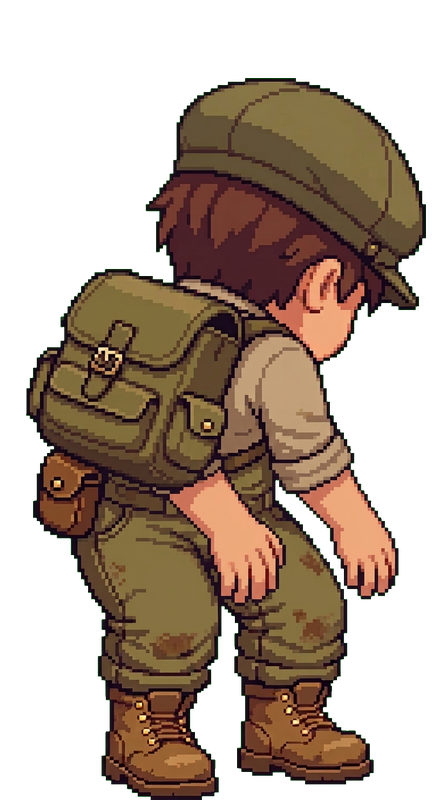
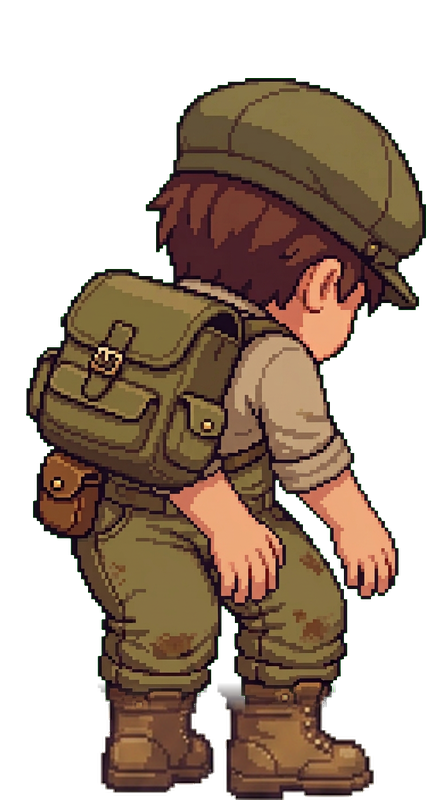
Keep player boots fixed throughout idle bow

Changed region(s): [[0.2106, 0.8438, 0.8727, 1.0]]

diff --git a/preview/app.js b/preview/app.js
@@ -1750,7 +1750,7 @@
   const characterShadowMasks=new WeakMap();
   const idleBowController=window.PlayerIdleBow.create();
   const idleBowFrames=Object.fromEntries(['front','back'].map(side=>[side,
-    ['transition','concept'].map(pose=>{const image=new Image();image.dataset.playerIdleBow='true';image.src=`./assets/player-idle-${side}-${pose}.png?v=2`;return image;})]));
+    ['transition','concept'].map(pose=>{const image=new Image();image.dataset.playerIdleBow='true';image.src=`./assets/player-idle-${side}-${pose}.png?v=3`;return image;})]));
   let idleBowAmount=0, idleBowSprite=null;
   function updateIdleBow(now) {
     const world=window.worldManager?.getActive(), character=window.worldManager?.getCharacter();

diff --git a/preview/index.html b/preview/index.html
@@ -17,7 +17,7 @@
   <script src="./cloud-layout.js?v=1" defer></script>
   <script src="./tree-shadow.js?v=1" defer></script>
   <script src="./player-idle-bow.js?v=3" defer></script>
-  <script src="./app.js?v=sky-233" defer></script>
+  <script src="./app.js?v=sky-234" defer></script>
   <script src="./preview-modes.js?v=2" defer></script>
   <script src="./editor-camera.js?v=7" defer></script>
   <script src="./terrain-tools.js?v=107" defer></script>

diff --git a/tools/build_player_idle_exhausted.py b/tools/build_player_idle_exhausted.py
@@ -27,6 +27,11 @@ for view,pose in specs:
     x=round((target[0]+target[2]-feet[0]-feet[2])/2)
     x=max(0,min(432-im.width,x))
     canvas.alpha_composite(im,(x,800-im.height))
+    # Reuse the standing boots verbatim, feathering only the ankle join. This keeps the
+    # foot size and placement identical through all frames without redrawing the player.
+    join=Image.new('L',(432,800))
+    join.putdata([round(255*min(1,max(0,(y-682)/30))) for y in range(800) for _ in range(432)])
+    canvas=Image.composite(standing,canvas,join)
     name=f'player-idle-{view}-{pose}.png';dest=ROOT/'preview/assets'/name;canvas.save(dest,optimize=True)
     (ROOT/f'app/src/main/res/drawable-nodpi/{name.replace("-","_")}').write_bytes(dest.read_bytes())
     print(name,box,canvas.getbbox())

diff --git a/tools/test_player_idle_sprites.py b/tools/test_player_idle_sprites.py
@@ -15,5 +15,6 @@ for side in ('front','back'):
         reference=standing.getchannel('A').crop((0,760,432,800)).getbbox()
         assert abs((feet[0]+feet[2]-reference[0]-reference[2])/2)<=3, (name,feet,reference)
         assert abs((feet[2]-feet[0])-(reference[2]-reference[0]))<=15, (name,feet,reference)
+        assert im.crop((0,712,432,800)).tobytes()==standing.crop((0,712,432,800)).tobytes(),name
         assert im.getchannel('A').getextrema()==(0,255),name
 print('Exhausted pose assets: transparent, consistent anchor, browser/Android parity: OK')

diff --git a/docs/player-idle-bow.md b/docs/player-idle-bow.md
@@ -2,4 +2,4 @@
 
 Saat gameplay player diam pada block yang sama selama 3 detik, player membungkuk secara halus selama setengah detik, menahan pose satu detik, lalu tegak kembali dalam setengah detik. Jika tetap diam, siklus dimulai lagi setiap 3 detik (dengan jeda satu detik setelah kembali tegak). Berjalan, berpindah block/world, meninggalkan gameplay atau menyembunyikan aplikasi memulai ulang penghitung. Reduced motion/animasi sistem nonaktif tidak menampilkan gerakan ini. Tidak ada perubahan pada data world.
 
-Sprite berdiri lama dipertahankan. Animasi menggunakan pose utuh berdiri → peralihan → membungkuk dengan kedua tangan pada lutut, lalu kembali. Kedua tampak depan dan belakang memiliki aset sendiri, dengan arah lain memakai cermin seperti renderer player sebelumnya. Semua pose menggunakan aturan skala yang sama tanpa memperkecil seluruh player saat membungkuk; pusat sepatu disejajarkan dengan sprite berdiri, dan bayangan menggunakan siluet pose yang aktif. Karena keyframe digambar terpisah, proporsi tubuh dan tampilan kaki belum identik piksel demi piksel. Ini animasi tiga pose diskret, bukan rig atau tween anatomi penuh; transisinya mungkin terlihat bertahap. Bagian bawah di air tetap menggunakan renderer terendam. Animasi berjalan tidak diubah. Android memakai aset dan logika yang sama, tetapi belum diuji lewat build atau perangkat.
+Sprite berdiri lama dipertahankan. Animasi menggunakan pose utuh berdiri → peralihan → membungkuk dengan kedua tangan pada lutut, lalu kembali. Kedua tampak depan dan belakang memiliki aset sendiri, dengan arah lain memakai cermin seperti renderer player sebelumnya. Semua pose menggunakan aturan skala yang sama tanpa memperkecil seluruh player saat membungkuk; sepatu menggunakan gambar sprite berdiri yang sama dengan sambungan di pergelangan, dan bayangan menggunakan siluet pose yang aktif. Karena keyframe digambar terpisah, proporsi tubuh dan tampilan kaki belum identik piksel demi piksel. Ini animasi tiga pose diskret, bukan rig atau tween anatomi penuh; transisinya mungkin terlihat bertahap. Bagian bawah di air tetap menggunakan renderer terendam. Animasi berjalan tidak diubah. Android memakai aset dan logika yang sama, tetapi belum diuji lewat build atau perangkat.
